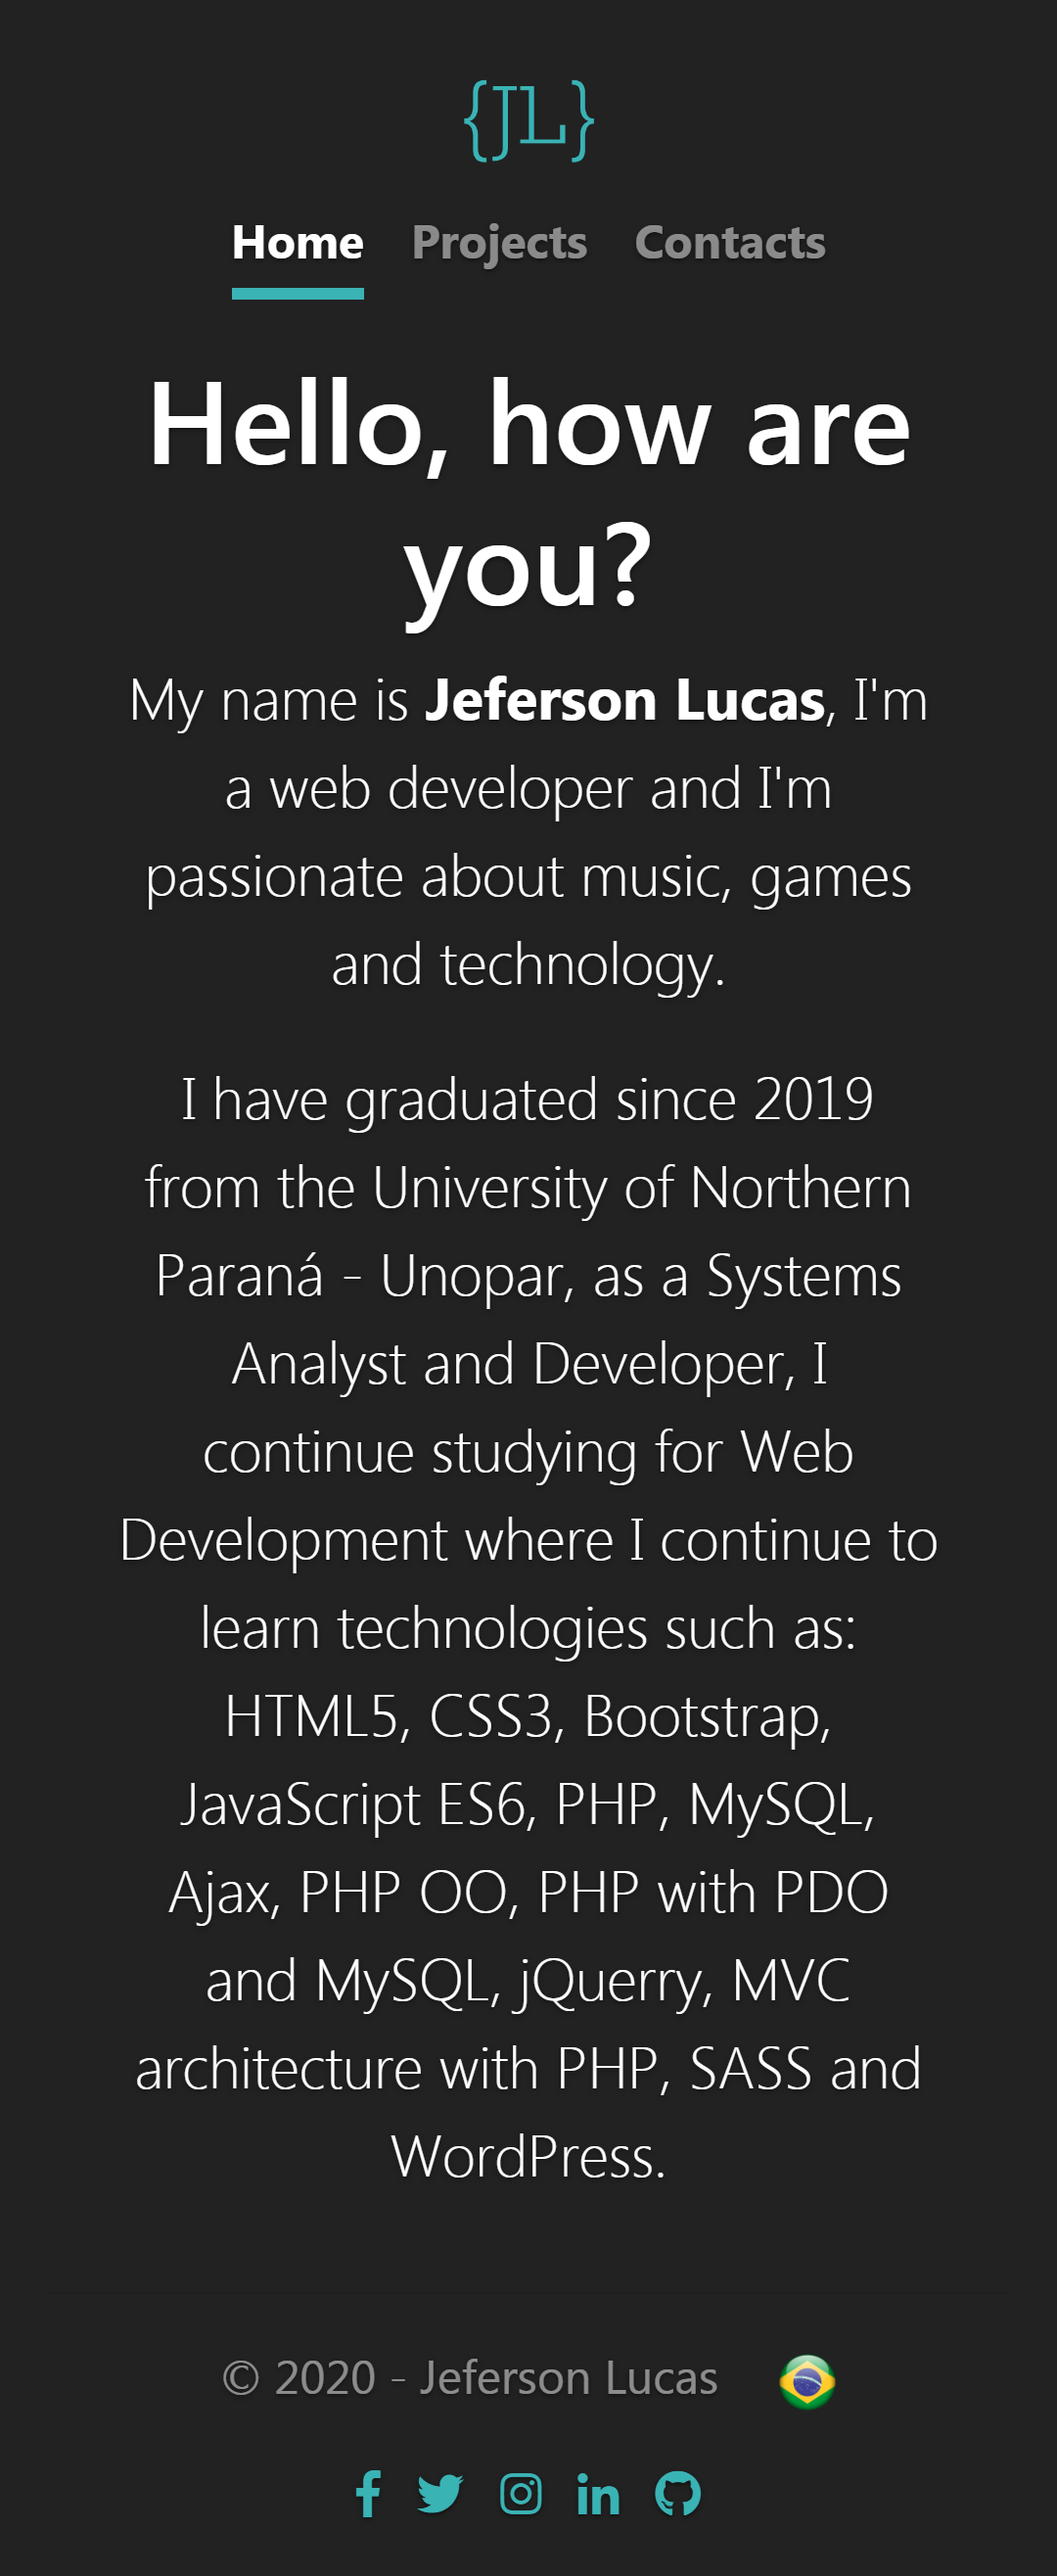
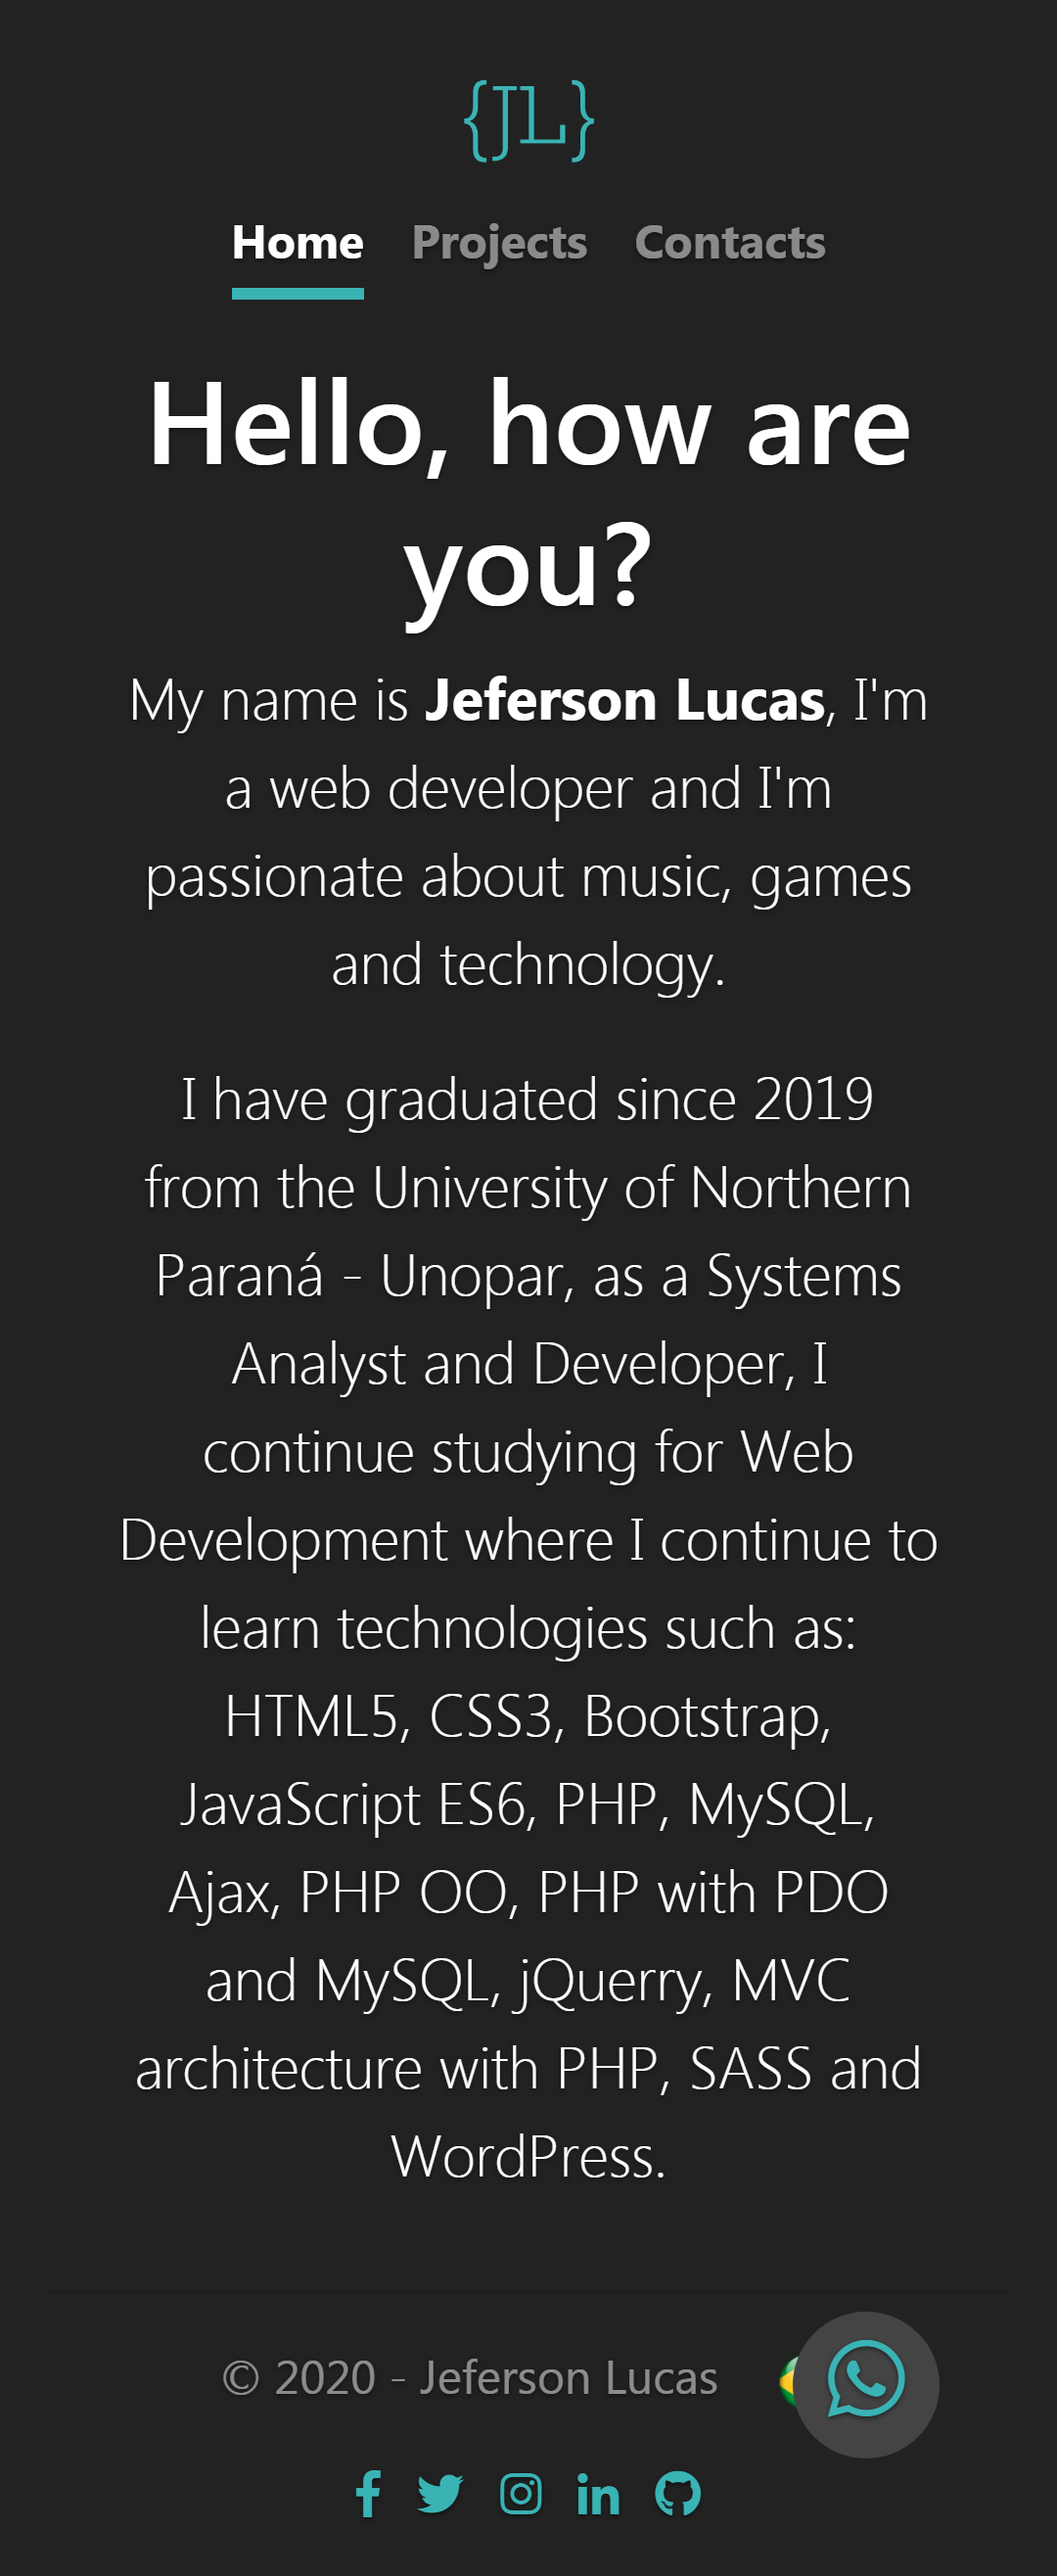
Added whatsapp link #6

Changed region(s): [[0.7333, 0.8727, 0.8861, 0.9662]]

diff --git a/index.html b/index.html
@@ -37,6 +37,10 @@
 			<h1 class="cover-heading">Hello, how are you?</h1>
 			<p class="lead">My name is <strong class="font-weight-bold">Jeferson Lucas</strong>, I'm a web developer and I'm passionate about music, games and technology.</p>
 			<p class="lead">I have graduated since 2019 from the University of Northern Paraná - Unopar, as a Systems Analyst and Developer, I continue studying for Web Development where I continue to learn technologies such as: HTML5, CSS3, Bootstrap, JavaScript ES6, PHP, MySQL, Ajax, PHP OO, PHP with PDO and MySQL, jQuerry, MVC architecture with PHP, SASS and WordPress.</p>
+
+			<a class="whatsapp-link" href="https://web.whatsapp.com/send?phone=556198453785" target="_blank">
+				<i class="fab fa-whatsapp"></i>
+			</a>
 		</main>
 		
 		<footer class="mastfoot mt-auto">

diff --git a/translate/pt-br/index.html b/translate/pt-br/index.html
@@ -37,6 +37,10 @@
 			<h1 class="cover-heading">Olá, tudo bem?</h1>
 			<p class="lead">Me chamo <strong class="font-weight-bold">Jeferson Lucas</strong>, sou desenvolvedor web e sou apaixonado pela música, jogos e tecnologia.</p>
 			<p class="lead">Sou formado desde 2019 pela Universidade do Norte do Paraná - Unopar, como Analista e Desenvolvedor de Sistemas, sigo estudando para Desenvolvimento Web onde prossigo aprendendo as tecnologias como: HTML5, CSS3, Bootstrap, JavaScript ES6, PHP, MySQL, Ajax, PHP OO, PHP com PDO e MySQL, jQuerry, Arquitetura MVC com PHP, SASS e WordPress.</p>
+		
+			<a class="whatsapp-link" href="https://web.whatsapp.com/send?phone=556198453785" target="_blank">
+				<i class="fab fa-whatsapp"></i>
+			</a>
 		</main>
 		
 		<footer class="mastfoot mt-auto">

diff --git a/assets/css/style.css b/assets/css/style.css
@@ -120,3 +120,20 @@ body {
 		font-size: 3.5rem;
 	}
 }
+/*
+ * Whatsapp	
+ */
+.whatsapp-link {
+	position: fixed;
+	width: 50px;
+	height: 50px;
+	bottom: 40px;
+	right: 40px;
+
+	background: #444;
+	color: #3ab3b5;
+	border-radius: 50%;
+	text-align: center;
+	font-size: 30px;
+	z-index: 10;
+}
